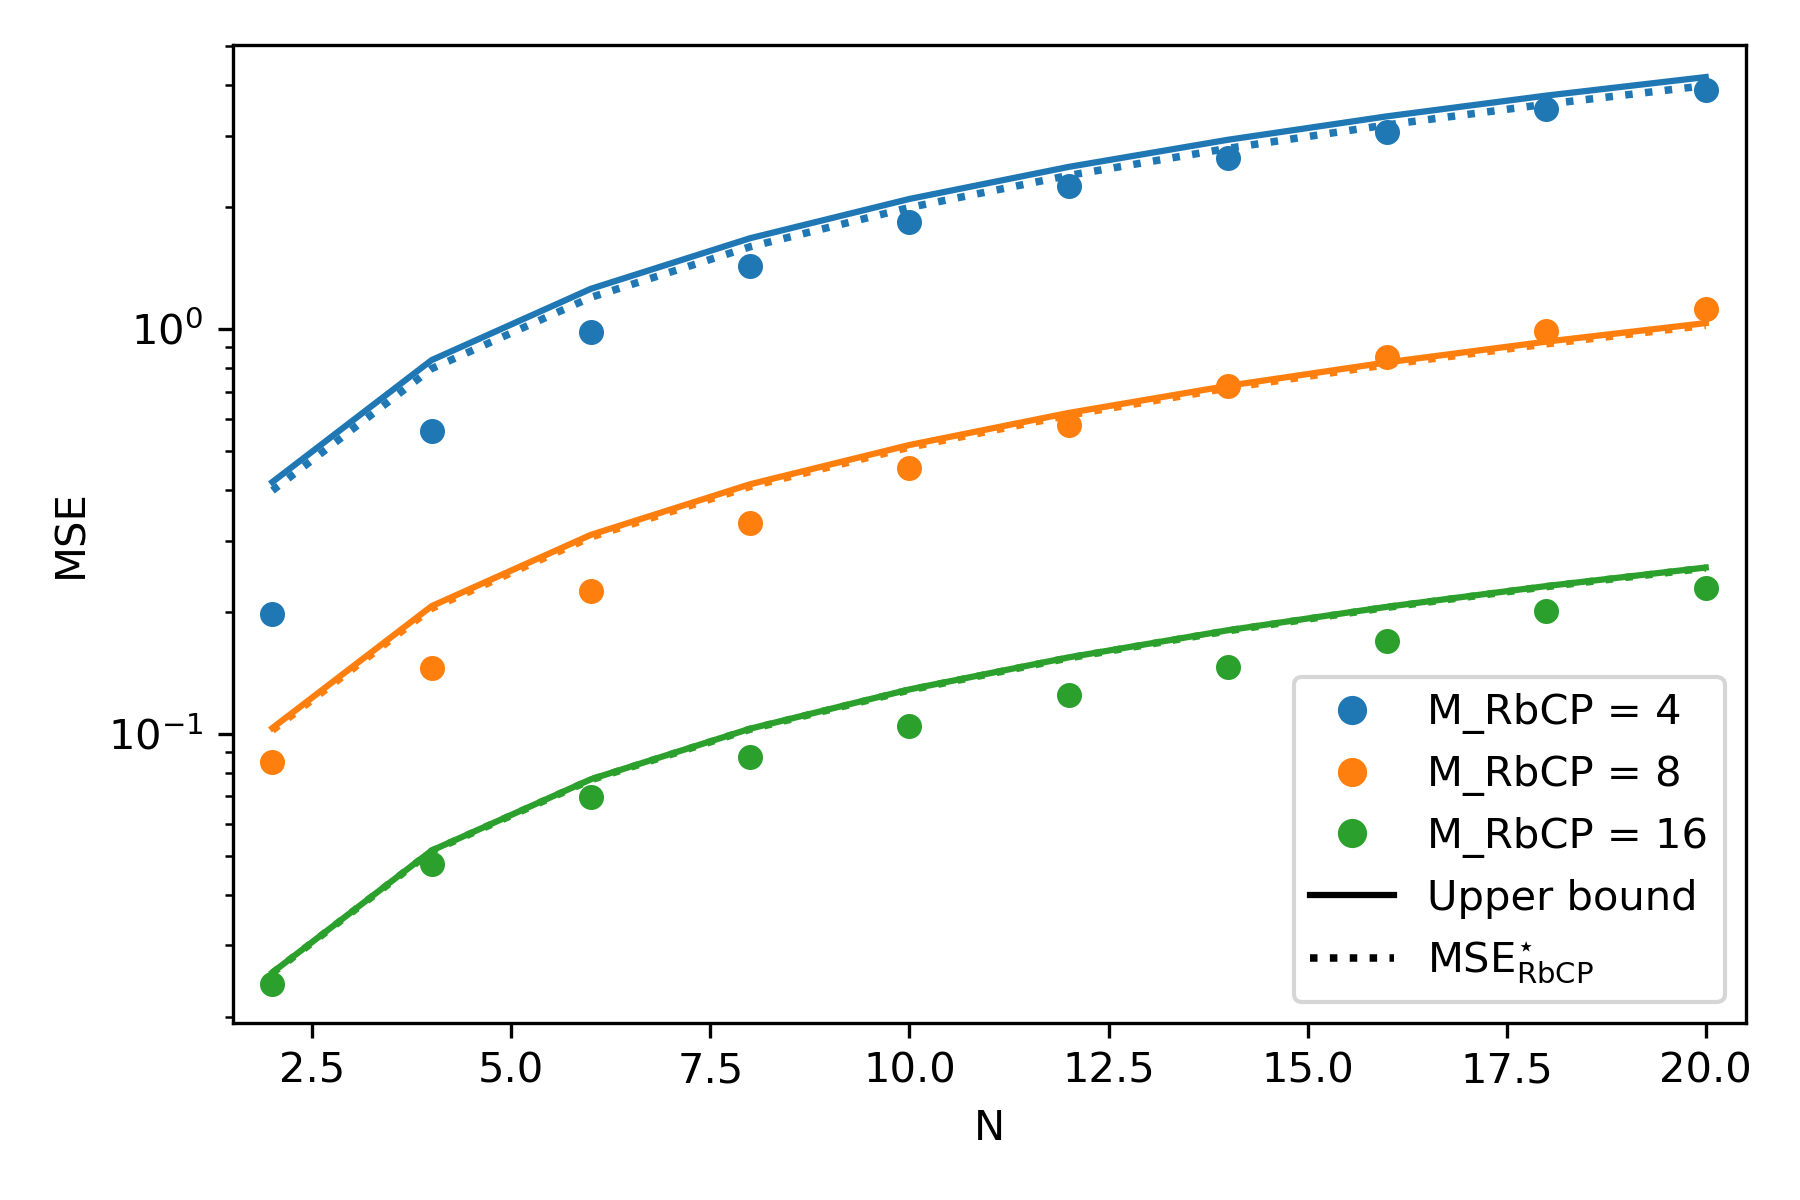
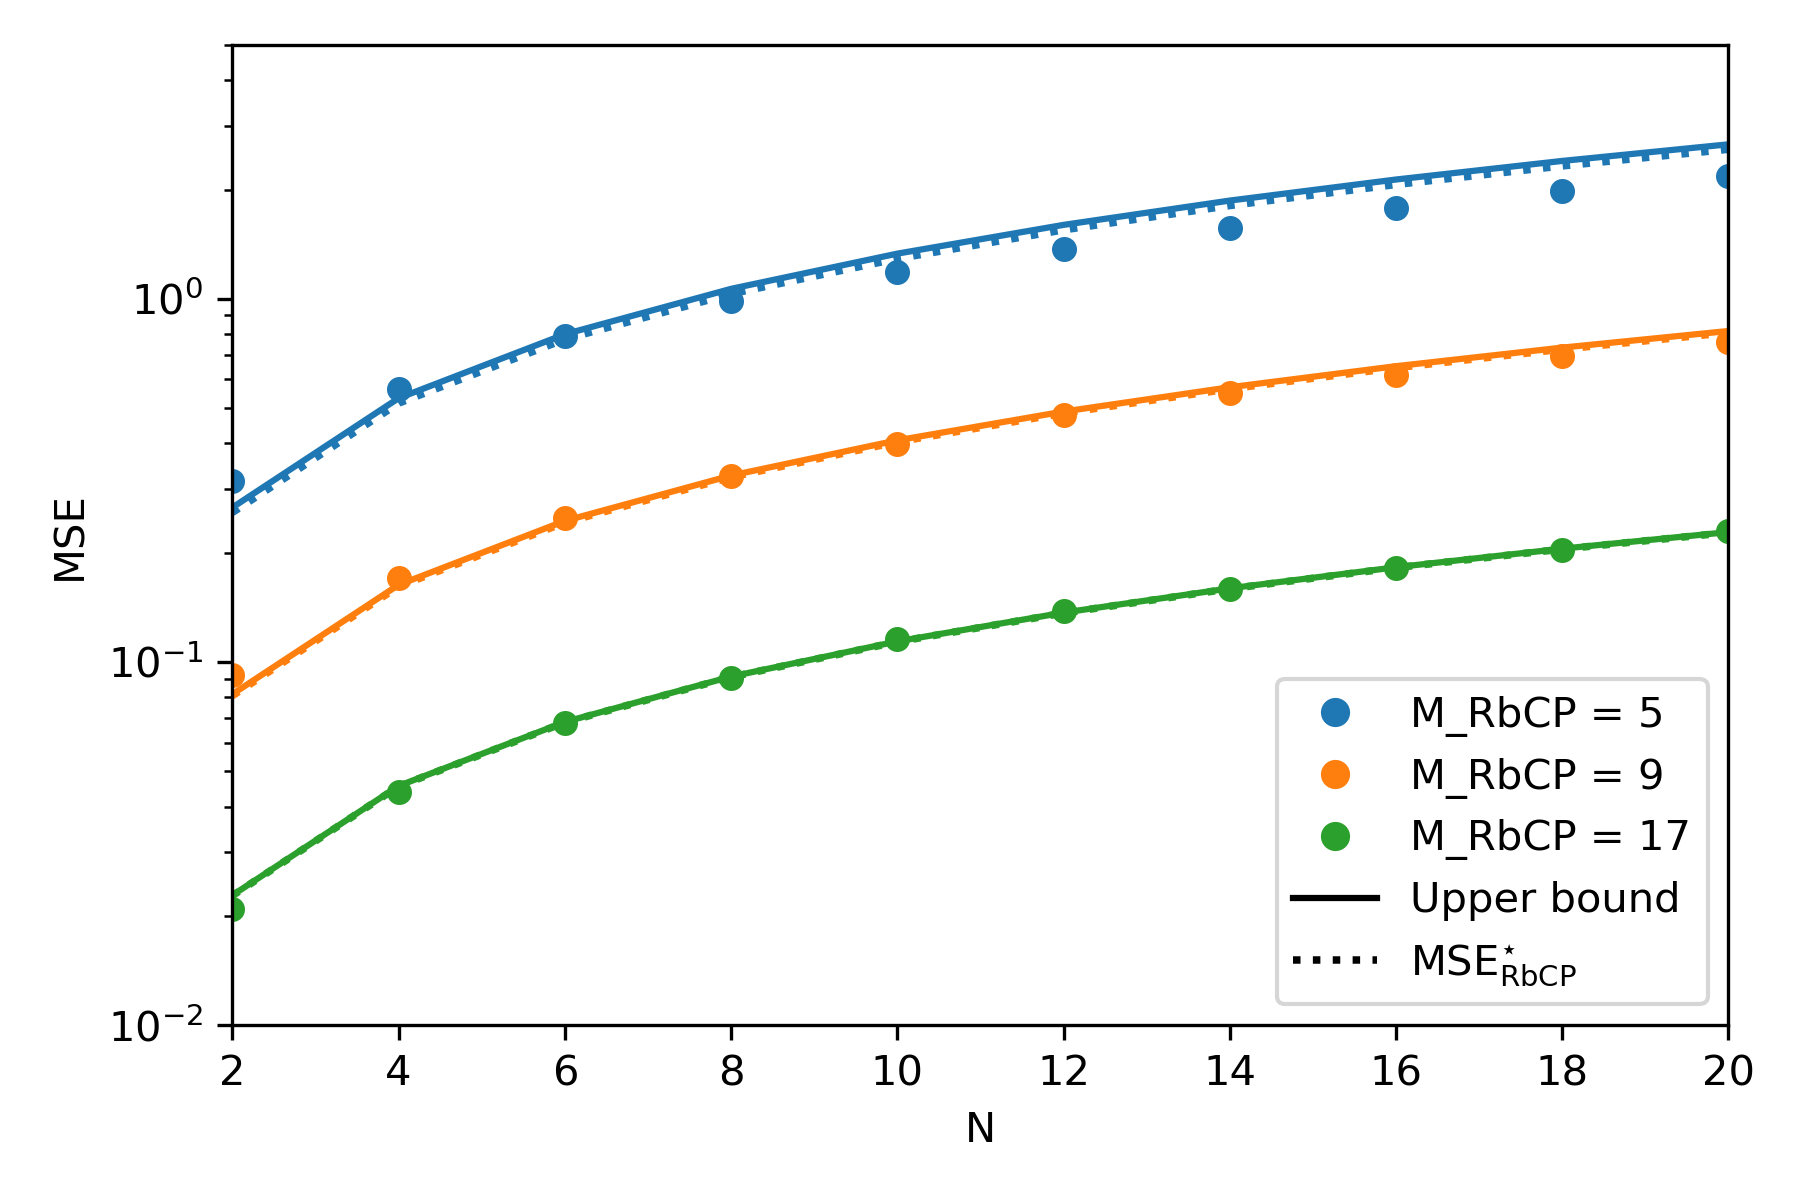
fig 1 working

diff --git a/tests/fig1.py b/tests/fig1.py
@@ -30,7 +30,14 @@ import sys
 import numpy as np
 
 # ---------------------------------------------------------------------
-# Path handling for PyCharm runfile() behavior
+# Trusted backend imports
+# ---------------------------------------------------------------------
+
+from sfc.core.samplers import RbCPSampler, RbCPConfig
+from sfc.sampling import filter_periodic, quantize_ta_tb
+
+# ---------------------------------------------------------------------
+# Path handling for PyCharm run file() behavior
 # This assumes:
 #   <repo-root>/tests/fig1.py
 #   <repo-root>/sfc/...
@@ -42,13 +49,6 @@ SFC_DIR = os.path.join(ROOT_DIR, "sfc")
 
 sys.path.insert(0, ROOT_DIR)
 sys.path.insert(0, SFC_DIR)
-
-# ---------------------------------------------------------------------
-# Trusted backend imports
-# ---------------------------------------------------------------------
-
-from sfc.core.samplers import RbCPSampler, RbCPConfig
-from sfc.sampling import filter_periodic, quantize_ta_tb
 
 # ---------------------------------------------------------------------
 # Output
@@ -67,11 +67,11 @@ OUTPUT_FILE = os.path.join(OUTPUT_DIR, "fig1.dat")
 # ---------------------------------------------------------------------
 
 def compute_Q(M):
-    return (M / (2.0 * np.pi)) * np.sin(np.pi / M)
+    return (M / 2 / np.pi) * np.sin(np.pi / M)
 
 
 def mse_upper_bound(N, Q):
-    return 4.0 * N * (0.5 - Q) * (1.5 - Q)
+    return 4 * N * (0.5 - Q) * (3 / 2 - Q)
 
 
 def mse_star(N, Q):
@@ -128,7 +128,7 @@ def generate_signal_one_period(t, Tt, tau, W_hz, p2p_target, rng):
     x_max = float(np.max(x))
     p2p = x_max - x_min
 
-    if p2p > p2p_target:
+    if p2p_target > 0:
         x = x * (p2p_target / p2p)
 
     return x
@@ -141,11 +141,11 @@ def generate_signal_one_period(t, Tt, tau, W_hz, p2p_target, rng):
 def main():
     # Figure 1 parameter sweep
     N_LIST = [2, 4, 6, 8, 10, 12, 14, 16, 18, 20]
-    M_LIST = [4, 8, 16]
+    M_LIST = [5, 9, 17]
 
     # Monte Carlo controls
     SEED = 47
-    TRIALS = 2000  # Increase for tighter markers if needed
+    TRIALS = 1000  # Increase for tighter markers if needed
 
     # Signal/window configuration
     tau = 1.0
@@ -153,7 +153,7 @@ def main():
     t = np.arange(-tau / 2.0, tau / 2.0, Tt)
 
     # Manuscript states p2p is 2 V unless otherwise stated
-    p2p_target = 2.0
+    p2p_target = 10.0
 
     rng = np.random.default_rng(SEED)
 
@@ -207,11 +207,11 @@ def main():
                     Tt,
                     t=t,
                     normalize=True,  # enforce "real phase" condition when needed
-                    norm=3.9  # same typical value used in trusted code
+                    norm=3.99  # same typical value used in trusted code
                 )
 
                 # 2) Quantize ta/tb using the trusted quantizer from sampling.py
-                ta_q, tb_q = quantize_ta_tb(ta, tb, sampler.w0, M_rbcp)
+                ta_q, tb_q = quantize_ta_tb(ta, tb, sampler.w0, M_rbcp, 10/21, 11/21)
 
                 # 3) Reconstruct using trusted recover_signal() via the sampler wrapper
                 xr = sampler.recover(ta_q, tb_q, t)

diff --git a/sfc/sampling.py b/sfc/sampling.py
@@ -304,7 +304,7 @@ class CPSample:
                 for ii in range(x.shape[1]):
                     aux = max(an[ii, :, iii] ** 2 + bn[ii, :, iii] ** 2)
                     while aux >= 4:
-                        print('normalizing')
+                        # print('normalizing')
                         x[:, ii, iii] = x[:, ii, iii] * np.sqrt(nor_x / aux)
                         for i in range(0, self.harmonics + 1):
                             FX[ii, i, iii] = Tt * np.sum(np.tile(x[:, ii, iii], self.dft_signal_periods) * np.exp(-1j * i * self.w0 * t)) / self.T
@@ -507,8 +507,8 @@ def quantize(x, x_min, x_max, bins, poss=1/2):
     return x_s
 
 
-def quantize_ta_tb(ta, tb, w0, bins):
-    bins = bins + 1
+def quantize_ta_tb(ta, tb, w0, bins, poss_ta=1/2, poss_tb=1/2):
+    bins = bins
     n = np.arange(ta.shape[1]) + 1
     x_min = - np.pi / (n * w0)
     x_max = np.pi / (n * w0)
@@ -518,15 +518,15 @@ def quantize_ta_tb(ta, tb, w0, bins):
     if len(ta.shape) == 3:
         for indx0 in range(ta.shape[0]):
             for indx2 in range(ta.shape[2]):
-                ta_q[indx0, :, indx2] = quantize(ta[indx0, :, indx2], x_min, x_max, bins, 9/16)
-                tb_q[indx0, :, indx2] = quantize(tb[indx0, :, indx2], x_min, x_max, bins, 7/16)
+                ta_q[indx0, :, indx2] = quantize(ta[indx0, :, indx2], x_min, x_max, bins, poss_ta)
+                tb_q[indx0, :, indx2] = quantize(tb[indx0, :, indx2], x_min, x_max, bins, poss_tb)
     elif len(ta.shape) == 2:
         for indx0 in range(ta.shape[0]):
-            ta_q[indx0, :] = quantize(ta[indx0, :], x_min, x_max, bins, 2/4)
-            tb_q[indx0, :] = quantize(tb[indx0, :], x_min, x_max, bins, 2/4)
+            ta_q[indx0, :] = quantize(ta[indx0, :], x_min, x_max, bins, poss_ta)
+            tb_q[indx0, :] = quantize(tb[indx0, :], x_min, x_max, bins, poss_tb)
     else:
-        ta_q = quantize(ta, x_min, x_max, bins, 2/4)
-        tb_q = quantize(tb, x_min, x_max, bins, 2/4)
+        ta_q = quantize(ta, x_min, x_max, bins, poss_ta)
+        tb_q = quantize(tb, x_min, x_max, bins, poss_tb)
 
     ta_q[np.where(ta == 9999)] = 9999
     tb_q[np.where(tb == 9999)] = 9999

diff --git a/tests/plot_fig1.py b/tests/plot_fig1.py
@@ -157,16 +157,17 @@ def main():
 
     # Match typical axis limits seen in the manuscript figure
     # You can adjust these if your generated values differ.
-    ax.set_xlim(min(data["N"]) - 0.5, max(data["N"]) + 0.5)
+    ax.set_xlim(2, 20)
+    ax.set_ylim(1e-2, 5)
 
     # If MSE values are available, define sensible y-limits
-    y_all = np.concatenate([data["MSE_Monte_Carlo"], data["MSE_UPPER"], data["MSE_STAR"]])
-    y_all = y_all[np.isfinite(y_all)]
-    y_all = y_all[y_all > 0]
-    if y_all.size > 0:
-        ymin = max(np.min(y_all) * 0.8, 1e-6)
-        ymax = max(np.max(y_all) * 1.2, ymin * 10)
-        ax.set_ylim(ymin, ymax)
+    # y_all = np.concatenate([data["MSE_Monte_Carlo"], data["MSE_UPPER"], data["MSE_STAR"]])
+    # y_all = y_all[np.isfinite(y_all)]
+    # y_all = y_all[y_all > 0]
+    # if y_all.size > 0:
+    #     ymin = max(np.min(y_all) * 0.8, 1e-6)
+    #     ymax = max(np.max(y_all) * 1.2, ymin * 10)
+    #     ax.set_ylim(ymin, ymax)
 
     # Build legend similar to the manuscript:
     # - Colors encode M_RbCP values
